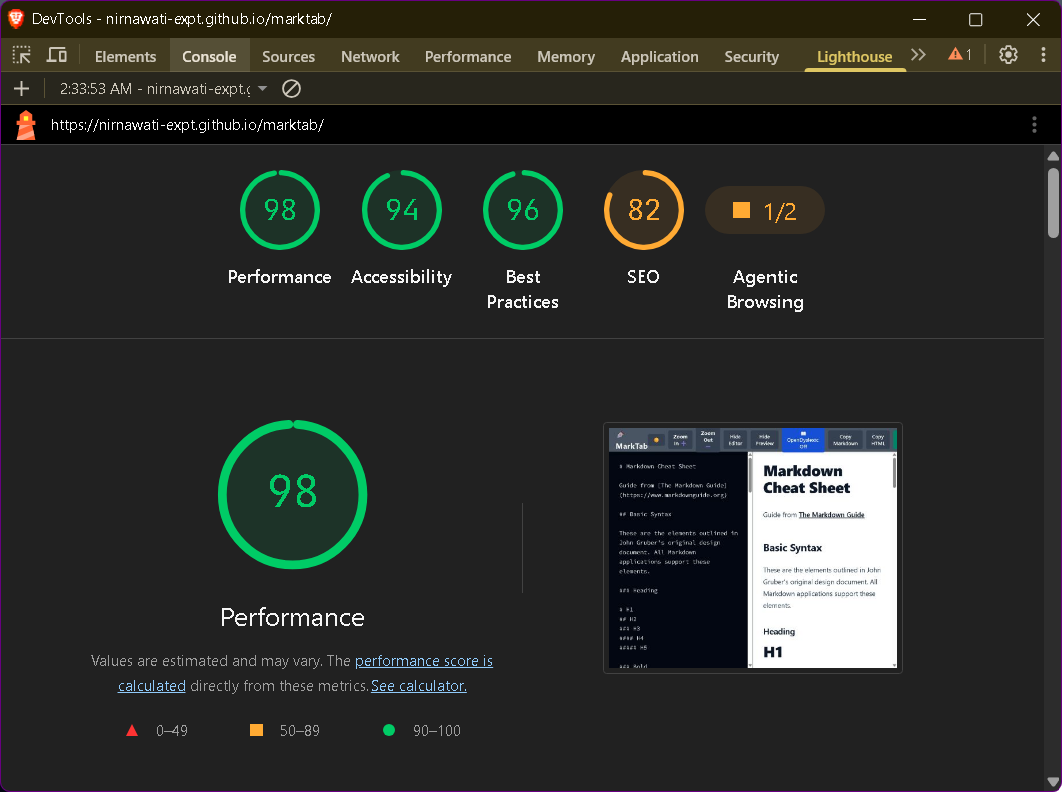
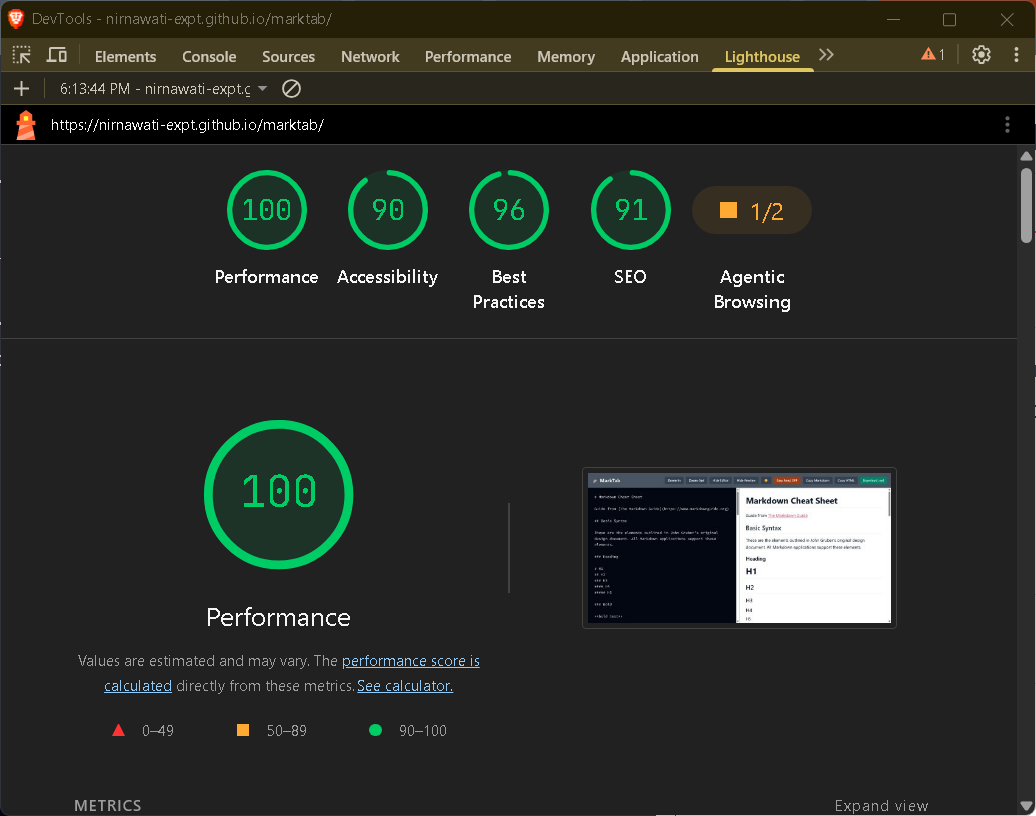
docs: update readme attachment on lighthouse test

diff --git a/README.md b/README.md
@@ -42,8 +42,8 @@ Most Markdown editors mean installing a heavy desktop app, fiddling with IDE ext
 
 ## Performance Highlights
 
-### Near-Perfect Performance
-Achieves a **98% Lighthouse score**, fully optimized for accessibility and best practices despite using external utility frameworks.
+### Blazing fast Performance
+Achieves a **100% Lighthouse performance score**, fully optimized for accessibility and best practices despite using external utility frameworks.
 
 <img src="attachment/lighthouse.png" width="100%" alt="lighthouse navigation test report">
 